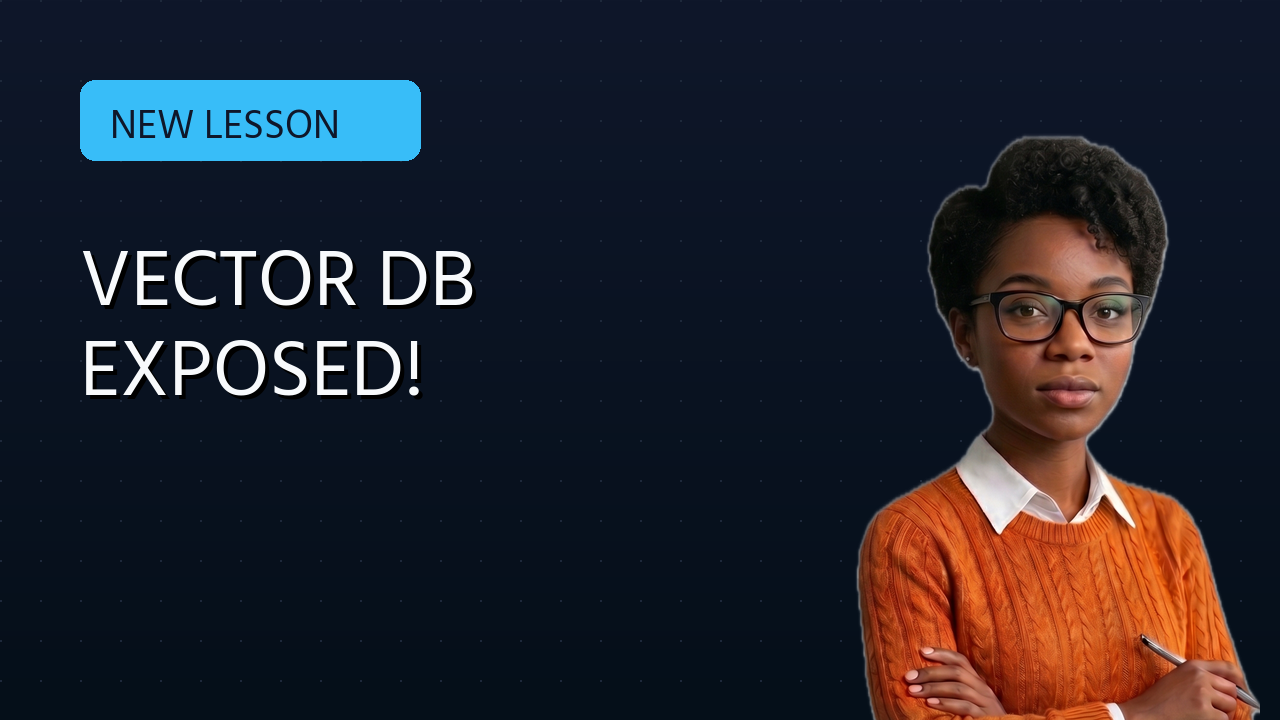
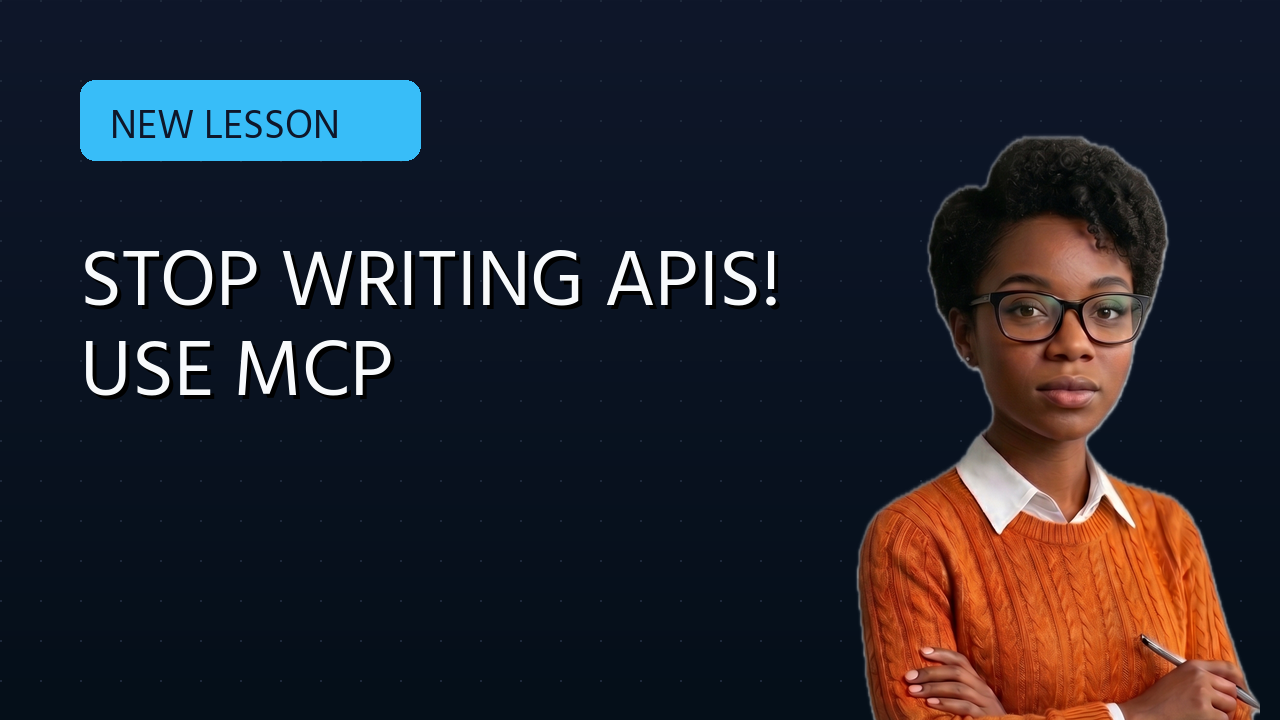
feat: Manual RE-GENERATE & render of lesson 20

Changed region(s): [[0.0625, 0.3361, 0.625, 0.4278], [0.0625, 0.4583, 0.3438, 0.55]]

diff --git a/rag_learning_series/lesson_020/exports/v2_lesson_020_slide_4.py b/rag_learning_series/lesson_020/exports/v2_lesson_020_slide_4.py
@@ -1,0 +1,27 @@
+from mcp.server.fastmcp import FastMCP
+from qdrant_client import QdrantClient
+
+# Initialize FastMCP Server and Qdrant Client
+mcp = FastMCP("qdrant-vector-service")
+qdrant_db = QdrantClient(url="http://localhost:6333")
+
+@mcp.tool()
+def query_vectors(collection_name: str, query_text: str, limit: int = 3) -> str:
+    """
+    Perform a semantic similarity search across the specified vector database collection.
+    
+    Args:
+        collection_name (str): The name of the target database collection.
+        query_text (str): The search query context.
+        limit (int): Max number of highly relevant records to retrieve.
+    """
+    try:
+        results = qdrant_db.query(
+            collection_name=collection_name,
+            query_text=query_text,
+            limit=limit
+        )
+        payloads = [str(r.metadata) for r in results]
+        return "\n".join(payloads) if payloads else "No relevant documentation found."
+    except Exception as e:
+        return f"Database query failed with error: {str(e)}"

diff --git a/rag_learning_series/lesson_020/snippet_3.py b/rag_learning_series/lesson_020/snippet_3.py
@@ -1,0 +1,27 @@
+from mcp.server.fastmcp import FastMCP
+from qdrant_client import QdrantClient
+
+# Initialize FastMCP Server and Qdrant Client
+mcp = FastMCP("qdrant-vector-service")
+qdrant_db = QdrantClient(url="http://localhost:6333")
+
+@mcp.tool()
+def query_vectors(collection_name: str, query_text: str, limit: int = 3) -> str:
+    """
+    Perform a semantic similarity search across the specified vector database collection.
+    
+    Args:
+        collection_name (str): The name of the target database collection.
+        query_text (str): The search query context.
+        limit (int): Max number of highly relevant records to retrieve.
+    """
+    try:
+        results = qdrant_db.query(
+            collection_name=collection_name,
+            query_text=query_text,
+            limit=limit
+        )
+        payloads = [str(r.metadata) for r in results]
+        return "\n".join(payloads) if payloads else "No relevant documentation found."
+    except Exception as e:
+        return f"Database query failed with error: {str(e)}"

diff --git a/rag_learning_series/lesson_020/exports/v2_lesson_020_slide_6.py b/rag_learning_series/lesson_020/exports/v2_lesson_020_slide_6.py
@@ -1,0 +1,10 @@
+{
+  "mcpServers": {
+    "qdrant-vector-service": {
+      "command": "/absolute/path/to/venv/bin/python",
+      "args": [
+        "/absolute/path/to/project/mcp_server.py"
+      ]
+    }
+  }
+}

diff --git a/rag_learning_series/lesson_020/snippet_5.py b/rag_learning_series/lesson_020/snippet_5.py
@@ -1,0 +1,10 @@
+{
+  "mcpServers": {
+    "qdrant-vector-service": {
+      "command": "/absolute/path/to/venv/bin/python",
+      "args": [
+        "/absolute/path/to/project/mcp_server.py"
+      ]
+    }
+  }
+}
